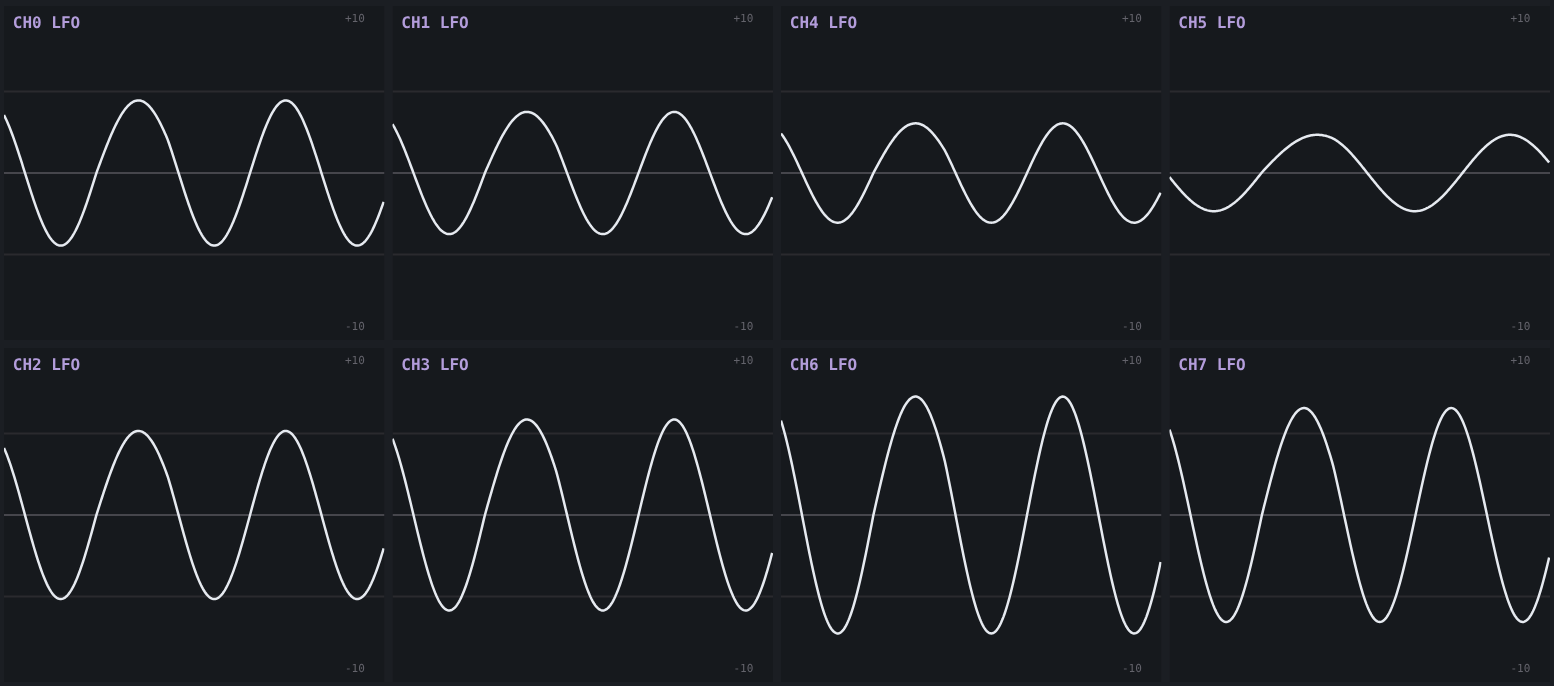
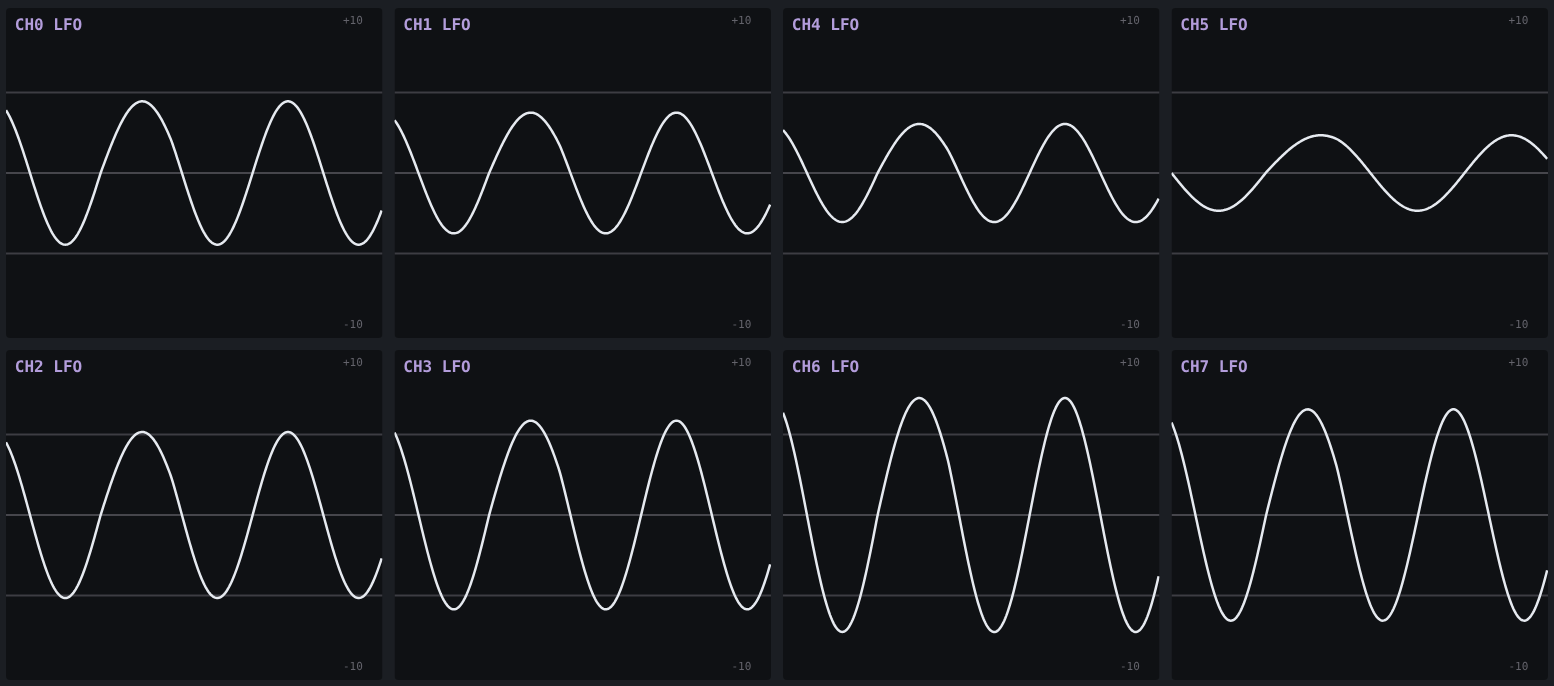
fix(web): shift and the wheel, and a bracket that stopped at three corners
Shift while turning is the module's fine-adjust modifier, and it worked on a
drag and not on the wheel. The module reads it off the push button's *level* on
the tick that sees the detent, so a press and release inside one event handler
is a button that was never down when a tick looked. The push is now held across
the wheel gesture and released a beat after the last notch. Six notches move
FRQ's ratio by 0.12 against 0.83 plain, which is the ~8 detents per ratio the
drag path gives.

The vertical bracket's lower segment had a right border as well as a left,
closing it into a U. Two rules from the pseudo-element version it replaced had
survived further down the file and, being later, won.

Also, since the last pass over these surfaces: a 2px radius on everything with
an edge - buttons, fields, the menu, the panel's ground, a scope cell - from one
--radius; the scope cells given a ground of their own rather than the panel's,
because eight traces have to read against it and the backdrop was coming through
at 15%; the +/-5V rules lifted out of the near-invisible; the cell gap widened to
6, since a radius eats into it from both sides; and a wider spill on the lit
buttons, which are illuminated switches and do throw further than an encoder
ring on the hardware too.

diff --git a/web/style.css b/web/style.css
@@ -60,6 +60,12 @@
   --key-black: #1b1e23;
   --warn: #e3b341;
 
+  /* The ground a scope cell is drawn on. Darker than --surface, which the panel
+     sits on: eight traces have to read against this, and the backdrop coming
+     through at 15% was competing with them. Read by web/const.js into a canvas
+     fillStyle, so a literal rather than a var() of something else. */
+  --scope-fill: rgba(0, 0, 0, .42);
+
   /* Condensed because a panel is lettered condensed: it takes tracking without
      the line getting long, which is what makes small uppercase labels work.
      The fallbacks are named so a first paint before the file lands is close in
@@ -72,6 +78,12 @@
      it slightly different in five places is what makes a page feel assembled
      rather than designed. */
   --track: .14em;
+
+  /* One radius for everything with an edge: buttons, fields, the panel's
+     ground, a scope cell, the menu. Two pixels is barely a corner - enough to
+     take the hardness off a rectangle, not enough to read as a rounded style.
+     web/const.js carries the same number for the cells the canvas draws. */
+  --radius: 2px;
 }
 
 /* Small, uppercase, widely tracked, and never quite white: the way a panel is
@@ -170,7 +182,7 @@ main {
 /* Ground for the panel and nothing else. It had a border and padding as well,
    which framed a thing that already has an outline of its own - and the bracket
    below it now does the marking-off that frame was doing. */
-#panel-wrap { background: var(--surface); }
+#panel-wrap { background: var(--surface); border-radius: var(--radius); }
 
 /* The ratio of the real panel, from panel.json - 81mm x 128.5mm.
  *
@@ -312,8 +324,16 @@ kbd { background: rgba(255, 255, 255, .09); padding: .05em .35em; font-size: .9e
   min-height: 6px;
   border-left: 1px solid var(--line);
 }
-.bracket i:first-of-type { border-top: 1px solid var(--line); }
-.bracket i:last-of-type { border-bottom: 1px solid var(--line); }
+/* The radius goes on the corner the two borders actually make, which is a
+   different one on each segment and swaps again when the bracket lies down. */
+.bracket i:first-of-type {
+  border-top: 1px solid var(--line);
+  border-top-left-radius: var(--radius);
+}
+.bracket i:last-of-type {
+  border-bottom: 1px solid var(--line);
+  border-bottom-left-radius: var(--radius);
+}
 .bracket span {
   writing-mode: vertical-rl;
   transform: rotate(180deg);
@@ -333,8 +353,14 @@ kbd { background: rgba(255, 255, 255, .09); padding: .05em .35em; font-size: .9e
   height: var(--tick); min-height: 0;
   border: 0; border-bottom: 1px solid var(--line);
 }
-.bracket.horizontal i:first-of-type { border-left: 1px solid var(--line); }
-.bracket.horizontal i:last-of-type { border-right: 1px solid var(--line); }
+.bracket.horizontal i:first-of-type {
+  border-left: 1px solid var(--line);
+  border-radius: 0 0 0 var(--radius);
+}
+.bracket.horizontal i:last-of-type {
+  border-right: 1px solid var(--line);
+  border-radius: 0 0 var(--radius) 0;
+}
 .bracket.horizontal span { writing-mode: horizontal-tb; transform: none; }
 
 /* Both declare their ratio so the page reserves the space before the first
@@ -410,9 +436,6 @@ kbd { background: rgba(255, 255, 255, .09); padding: .05em .35em; font-size: .9e
   font: .7rem/1 var(--mono);
   letter-spacing: normal;
 }
-
-.bracket i:first-of-type { border-left: 1px solid var(--line); }
-.bracket i:last-of-type { border-right: 1px solid var(--line); }
 
 /* Vertical fader, filled from the centre so 0V reads as "no offset". A native
    range input fills from its minimum, which put a solid bar at -10V. */
@@ -549,6 +572,7 @@ input[type=number] {
   background: rgba(20, 22, 27, .7);
   color: var(--fg);
   border: 1px solid var(--line);
+  border-radius: var(--radius);
   padding: .55rem 1.1rem;
   font: 500 .78rem/1 var(--font);
   letter-spacing: .04em;
@@ -592,6 +616,7 @@ button {
   background: transparent;
   color: var(--fg);
   border: 1px solid var(--line);
+  border-radius: var(--radius);
   padding: .55rem 1.1rem;
   cursor: pointer;
   font-family: var(--font);
@@ -1029,12 +1054,14 @@ progress {
 .verdict {
   padding: .7rem .9rem;
   background: rgba(255, 255, 255, .06);
+  border-radius: var(--radius);
   margin: .9rem 0;
   font-size: .92rem;
 }
 .verdict[hidden] { display: none; }
 
 #log {
+  border-radius: var(--radius);
   font: 12.5px/1.6 var(--mono);
   color: var(--muted);
   background: rgba(0, 0, 0, .35);
@@ -1120,6 +1147,8 @@ code { background: rgba(255, 255, 255, .09); padding: 0 .25em; font-family: var(
   flex-direction: column;
   background: #1b1e23;
   border: 1px solid var(--line);
+  border-radius: var(--radius);
+  overflow: hidden;
 }
 
 /* The same face every other label on the page wears, so the menu reads as part

diff --git a/web/panel.js b/web/panel.js
@@ -292,7 +292,11 @@ const PART = {
 // This is reach, not brightness - the colour and intensity still come from the
 // framebuffer, so a dim LED stays dim. See leds.js.
 const HALO_ENCODER = 1.22;
-const HALO_BUTTON = 1.30;
+// Wider than the encoders', which is not symmetry lost but the parts being
+// different: an illuminated switch *is* the lamp, where an encoder is a knob
+// with a ring behind it, so the spill off a button reaches further on the
+// hardware too.
+const HALO_BUTTON = 1.5;
 
 // Every outline on the panel, so none of them can drift from the others - and
 // the jacks', which is the same line at a lower strength.
@@ -304,6 +308,11 @@ const encIndicators = new Map();
 // One detent of spoke rotation. Four spokes, so 12deg is a quarter turn every
 // 7.5 detents - fast enough to read as movement, slow enough not to alias.
 const DEG_PER_DETENT = 12;
+
+// How long the push stays asserted after the last shift-wheel notch. Long
+// enough to cover several engine ticks and the gap between two notches of one
+// gesture, short enough that it is over before the next deliberate move.
+const WHEEL_SHIFT_RELEASE_MS = 140;
 
 function bindEncoder(ring, cap, e) {
   // Push is the centre cap; turning is the ring. Holding Shift while turning
@@ -341,7 +350,31 @@ function bindEncoder(ring, cap, e) {
 
   // On the cap as well as the ring: the cap is a good half of the knob, and
   // having the wheel do nothing over the middle of it reads as a dead spot.
-  const wheel = ev => { ev.preventDefault(); input.addEncoder(e.index, ev.deltaY < 0 ? 1 : -1); };
+  //
+  // Shift works here as it does on a drag, which took holding the push down
+  // across the wheel gesture rather than around one event. The module reads
+  // fine adjust off the button's *level* on the tick that sees the detent, and
+  // a press and release inside one handler is a button that was never down when
+  // a tick looked - so the press is held and released a beat after the gesture
+  // stops, with each further notch pushing that release back.
+  let shiftHeld = null;
+  const releaseShift = () => { shiftHeld = null; input.setButton(e.push_button, 0); };
+
+  const wheel = ev => {
+    ev.preventDefault();
+
+    if (ev.shiftKey) {
+      if (shiftHeld === null) input.setButton(e.push_button, 1);
+      else clearTimeout(shiftHeld);
+      shiftHeld = setTimeout(releaseShift, WHEEL_SHIFT_RELEASE_MS);
+    } else if (shiftHeld !== null) {
+      // Let go mid-gesture: stop modifying at once rather than at the timeout.
+      clearTimeout(shiftHeld);
+      releaseShift();
+    }
+
+    input.addEncoder(e.index, ev.deltaY < 0 ? 1 : -1);
+  };
   ring.addEventListener('wheel', wheel, { passive: false });
   cap.addEventListener('wheel', wheel, { passive: false });
 

diff --git a/web/const.js b/web/const.js
@@ -51,10 +51,14 @@ export const SCOPE_SECONDS = 2;
 // Barely a fill - enough to settle the cells into a grid and take the edge off
 // whatever is behind a trace; not enough to make the scopes a black rectangle
 // laid over the page.
+// Its own variable rather than --surface, which the panel also sits on. A cell
+// wants to be darker than that: eight traces read against their ground, and the
+// backdrop photograph coming through at 15% was competing with them for the
+// darker half of every cell.
 export const CELL_FILL = (() => {
-  const fallback = 'rgba(0, 0, 0, .15)';
+  const fallback = 'rgba(0, 0, 0, .42)';
   if (typeof getComputedStyle !== 'function' || typeof document === 'undefined') return fallback;
-  const v = getComputedStyle(document.documentElement).getPropertyValue('--surface').trim();
+  const v = getComputedStyle(document.documentElement).getPropertyValue('--scope-fill').trim();
   return v || fallback;
 })();
 
@@ -62,11 +66,14 @@ export const CELL_FILL = (() => {
 // separates them - the page shows through it, exactly as it does between the
 // readout cells.
 //
-// Four rather than three. At the narrower page width the cells sit closer
-// together, and a gap that reads as a seam at 1600px reads as a shared edge at
-// 1200 - two traces looking like one wide one is the thing this exists to
-// prevent.
-export const CELL_GAP = 4;
+// Six. The cells carry a rounded corner now, and a radius eats into the gap
+// from both sides - at four the two curves nearly met and the seam read as one
+// wide cell again, which is the thing this exists to prevent.
+export const CELL_GAP = 6;
+
+// How far a cell's corners are rounded, in CSS pixels before the device ratio.
+// Matches the radius the buttons and boxes around it wear - see --radius.
+export const CELL_RADIUS = 2;
 
 // One colour for all eight traces: the position already says which channel it
 // is, so a palette would only add noise.

diff --git a/web/scope.js b/web/scope.js
@@ -9,7 +9,7 @@
 import { IN_ORDER, SCOPE_ORDER } from './spec.js';
 import { EFF, sim, SCOPE_LEN, INPUT_MODE_NAMES, SHAPE_NAMES } from './sim.js';
 import {
-  CELL_FILL, CELL_GAP, IN_V, INPUT_MODE_COLORS, SCOPE_SECONDS,
+  CELL_FILL, CELL_GAP, CELL_RADIUS, IN_V, INPUT_MODE_COLORS, SCOPE_SECONDS,
   SCOPE_V, SHAPE_MODE_COLORS, TRACE, TRACE_IN,
 } from './const.js';
 import { mode } from './mode.js';
@@ -70,9 +70,12 @@ function drawCell(c, { x0, y0, cw, ch, data, lane, head, span, valid, vRange, pa
   const mid = y0 + pad + plotH / 2;
   const vScale = (plotH / 2) / vRange;
 
+  // Rounded by the same couple of pixels as everything else on the page, and
+  // clipped to that shape so the trace and the grid stop at the corner rather
+  // than running into it.
   c.save();
   c.beginPath();
-  c.rect(x0, y0, cw, ch);
+  c.roundRect(x0, y0, cw, ch, CELL_RADIUS * k);
   c.clip();
 
   // The surface, behind the grid and the trace.
@@ -88,7 +91,7 @@ function drawCell(c, { x0, y0, cw, ch, data, lane, head, span, valid, vRange, pa
   // against a blue-grey fill, which was invisible until the fill went neutral
   // and left them the only cool thing in the cell.
   c.lineWidth = k;
-  c.strokeStyle = '#2a2a2e';
+  c.strokeStyle = '#3d3d43';
   for (const v of [-5, 5]) {
     c.beginPath();
     c.moveTo(x0, mid - v * vScale);
